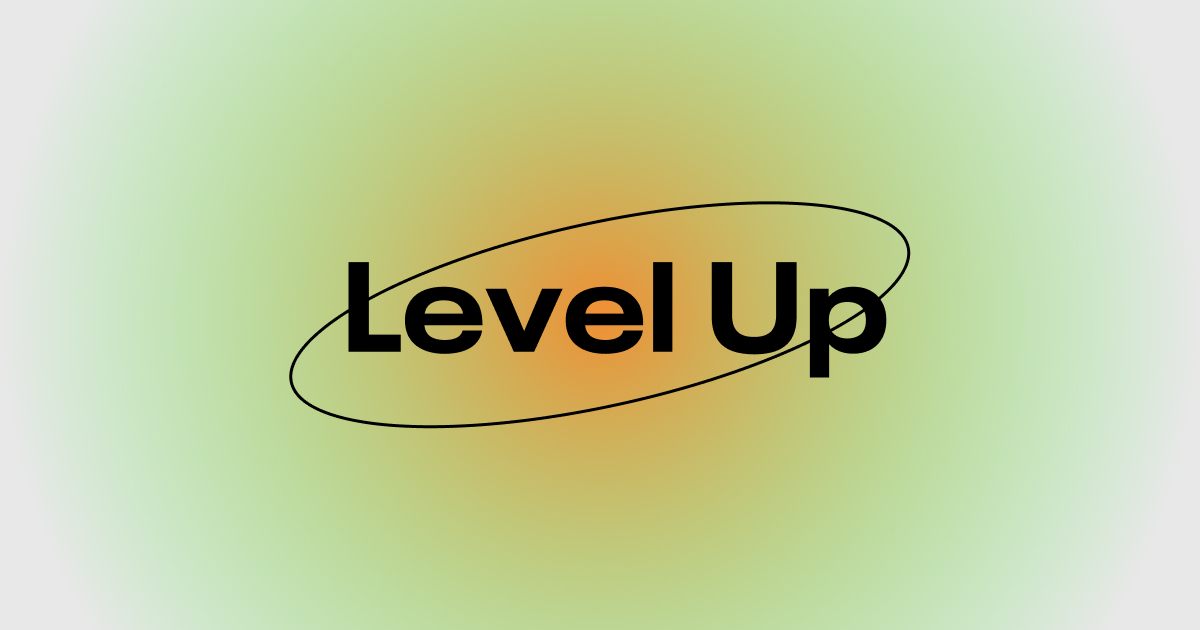
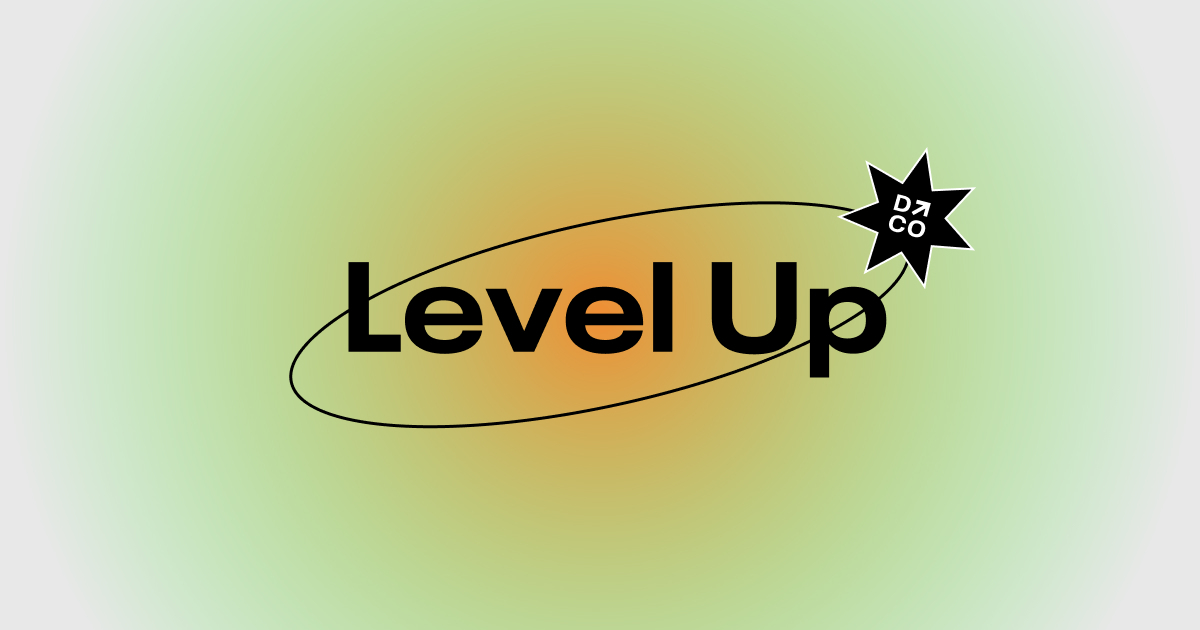
add apply link

Changed region(s): [[0.6783, 0.2413, 0.8325, 0.4524]]

diff --git a/src/Main.js b/src/Main.js
@@ -185,6 +185,15 @@ class Main extends React.Component {
               <span> real-world </span> problems with the guidance of 
               <span> industry </span> mentors.
             </h1>
+            
+            <div id="apply">
+              <span>
+                <a href="https://forms.gle/rvmpX2UdSfrCdQD99">
+                  Apply Now!
+                  <img src={require("./images/apply-arrow.svg")} alt="" />
+                  </a>
+              </span>
+            </div>
           </div>
 
           <div className="overview" ref={(overviewEl) => {this.overviewEl = overviewEl}}>

diff --git a/src/css/App.scss b/src/css/App.scss
@@ -271,10 +271,31 @@ body, html {
   padding: 8rem 13rem;
   box-sizing: border-box;
   display: flex;
-  align-items: center;
+  align-items: flex-end;
+  flex-direction: column;
+  justify-content: space-evenly;
 
   h1 {
     position: relative;
+  }
+
+  #apply {
+    span {
+      border: 1px solid black;
+      border-radius: 50%;
+      padding: 1.5vw 2vw;
+    }
+
+    a {
+      text-decoration: none;
+      color: inherit;
+    }
+
+    img {
+      width: 2.5rem;
+      margin-left: 2rem;
+      vertical-align: middle;
+    }
   }
 }
 

diff --git a/src/css/MobileTypography.scss b/src/css/MobileTypography.scss
@@ -45,6 +45,19 @@
   .navHeader h3, .nav span {
     font-size: 1.6vw;
   }
+
+  .landing {
+    #apply {
+      span {
+        font-size: 2vw;
+
+        img {
+          width: 2vw;
+          margin-left: 1.5vw;
+        }
+      }
+    }
+  }
 }
 
 @media screen and (max-width: $xxxl) and (min-width: $sm + 1) {

diff --git a/src/css/Mobile.scss b/src/css/Mobile.scss
@@ -107,6 +107,7 @@ $sidebar: 16vw;
     .landing {
       padding: 0 3rem;
       margin-top: $sidebar;
+      align-items: center;
 
       h1 {
         top: -$sidebar / 2;

diff --git a/src/css/Typography.scss b/src/css/Typography.scss
@@ -42,6 +42,10 @@ h2 {
   font-size: 0;
 }
 
+#apply span {
+  font-size: 3rem;
+}
+
 .sidebar p {
   font-size: 1.6rem;
 }
